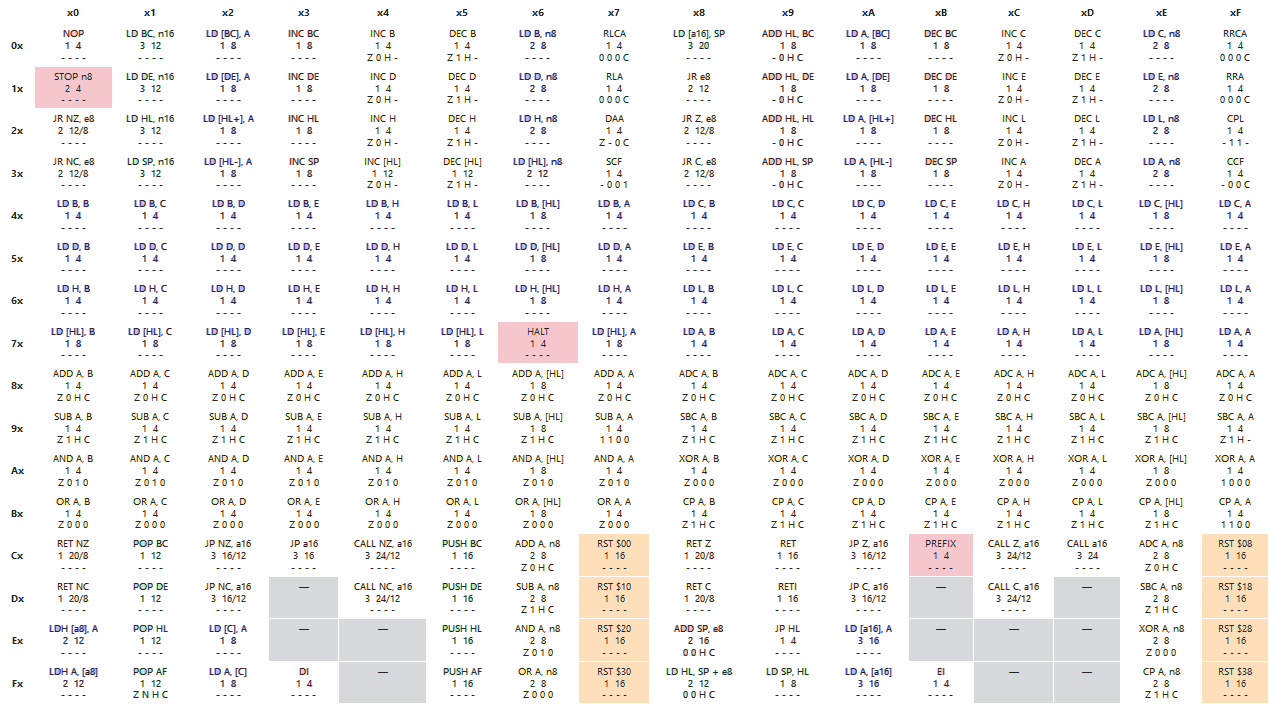
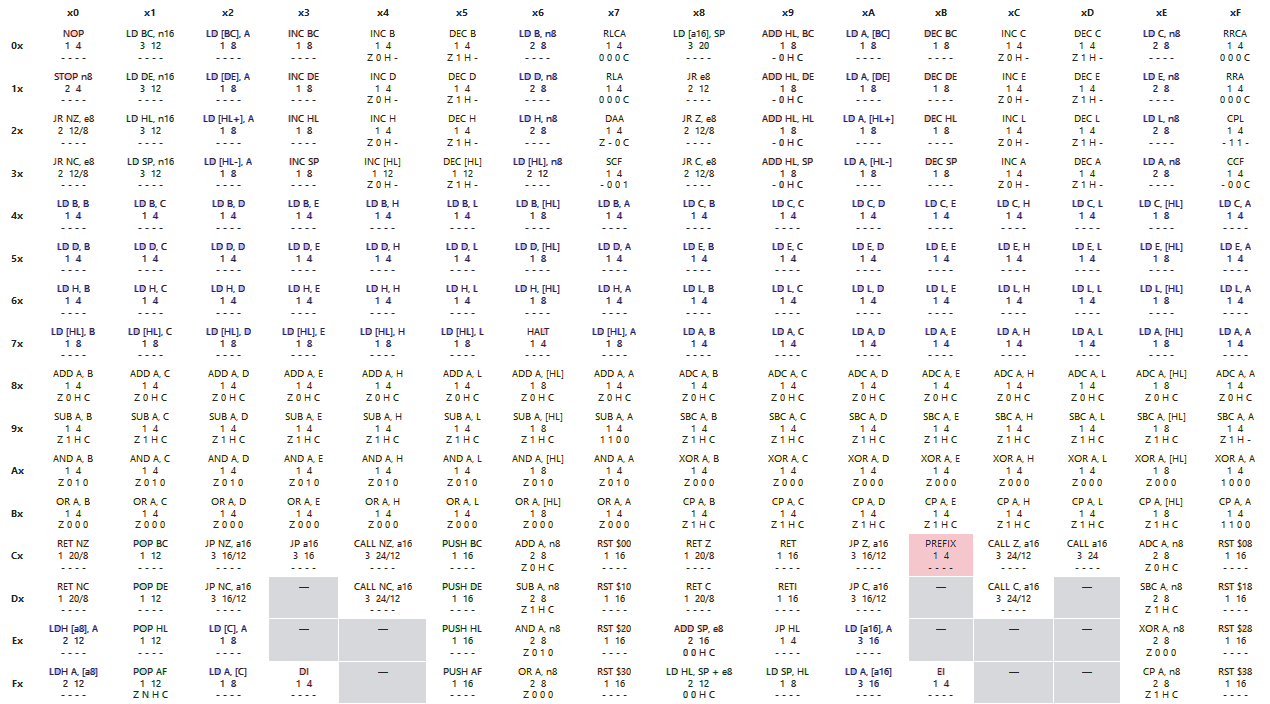
add basic timing, implement RST; implement HALT; add STOP (which wont be implemented). Also confirmed OBOE with bus (unprefixed instructions are finished!)

diff --git a/src/gb/cpu/mod.rs b/src/gb/cpu/mod.rs
@@ -10,9 +10,11 @@ use std::rc::Rc;
 
 pub struct CPU {
 	pub registers: Registers,
-	pub pc: u16,
-	pub ime: bool,	// interrupt master enable
 	pub bus: Rc<RefCell<Bus>>,
+	pub pc: u16,
+	pub ime: bool,			// interrupt master enable
+	pub halted: bool,		// used with the HALT instruction
+	pub wait_cycles: u16,	// used to count the number of cycles left until an instruction has finished
 }
 
 #[allow(dead_code)]
@@ -21,9 +23,11 @@ impl CPU {
 	pub fn new(bus: Rc<RefCell<Bus>>) -> Self {
 		CPU {
 			registers: Registers::new(),
+			bus: bus,
 			pc: 0,
 			ime: false,
-			bus: bus,
+			halted: false,
+			wait_cycles: 0,
 		}
 	}
 
@@ -50,18 +54,20 @@ impl CPU {
 
 		let mut executed: bool = false;
 
-		for instruction in if prefixed { PREFIXED_INSTRUCTIONS.iter() } else { INSTRUCTIONS.iter() } {
-			for opcode in instruction.opcodes.iter() {
-				if byte == *opcode {
+		if !self.halted {
+			for instruction in if prefixed { PREFIXED_INSTRUCTIONS.iter() } else { INSTRUCTIONS.iter() } {
+				for opcode in instruction.opcodes.iter() {
+					if byte == *opcode {
 
-					println!("[0x{:x}] {}", self.pc, instruction.mnemonic);
+						println!("[0x{:x}] {}", self.pc, instruction.mnemonic);
 
-					let mut cycles = instruction.cycles;
+						let mut cycles = instruction.cycles;
 
-					(instruction.exec)(self, byte, &mut cycles);
+						(instruction.exec)(self, byte, &mut cycles);
 
-					// TODO wait clock_speed * cycles after the instruction has been executed
-					executed = true;
+						self.wait_cycles = cycles;
+						executed = true;
+					}
 				}
 			}
 		}
@@ -69,7 +75,7 @@ impl CPU {
 		if !executed {
 			println!("[0x{:x}] Undefined opcode: 0x{:x}", self.pc, byte);
 		}
-
+		
 		// check for interrupts
 		if self.ime {
 			let if_flags = self.bus.borrow().read_register(MemRegister::IF);
@@ -98,15 +104,17 @@ impl CPU {
 		// assumes the corresponding IE bit is true
 		// interrupts are checked before the next instruction is executed
 
+		if self.halted { self.halted = false; }
+
 		let new_if = self.bus.borrow().read_register(MemRegister::IF) & flag as u8;
 		self.bus.borrow_mut().write_register(MemRegister::IF, new_if);
 
 		self.ime = false;
 
 		self.push16(self.pc);
-		self.pc = source as u16
+		self.pc = source as u16;
 
-		// TODO lasts 25 T-states (cycles)
+		self.wait_cycles = 25;
 
 	}
 

diff --git a/src/gb/cpu/instructions.rs b/src/gb/cpu/instructions.rs
@@ -75,12 +75,17 @@ lazy_static!{
 		Instruction::new(vec![0xFB], 4, "EI", EI),
 		Instruction::new(vec![0xF4], 4, "DI", DI),
 
+		Instruction::new(vec![0x76], 4, "HALT", HALT),
+		Instruction::new(vec![0x10], 4, "STOP", STOP),
+
 		// jump / subroutine instructions
 		Instruction::new(vec![0x20, 0x30, 0x18, 0x28, 0x38], 12, "JR (cond), e8", JR_COND_E8),
 		Instruction::new(vec![0xC3, 0xC2, 0xD2, 0xCA, 0xDA], 16, "JP (cond), a16", JP_COND_A16),
 		Instruction::new(vec![0xE9], 4, "JP HL", JP_HL),
 		Instruction::new(vec![0xC4, 0xD4, 0xCC, 0xDC, 0xCD], 24, "CALL (cond), a16", CALL_COND_A16),
 		
+		Instruction::new(vec![0xC7, 0xD7, 0xE7, 0xF7, 0xCF, 0xDF, 0xEF, 0xFF], 16, "RST vec", RST),
+
 		Instruction::new(vec![0xC0, 0xD0, 0xC8, 0xD8], 20, "RET (cond)", RET_COND),
 		Instruction::new(vec![0xC9], 16, "RET", RET_COND),
 		Instruction::new(vec![0xD9], 16, "RETI", RET_COND),
@@ -202,6 +207,33 @@ fn DI(cpu: &mut CPU, opcode: u8, cycles: &mut u16) {
 	cpu.ime = false;
 
 	cpu.pc += 1;
+}
+
+/*
+
+MNEMONIC: HALT
+OPCODES: 0x76
+DESC: Halts the CPU until and interrupt is serviced
+FLAGS: - - - -
+
+*/
+fn HALT(cpu: &mut CPU, opcode: u8, cycles: &mut u16) {
+
+	cpu.halted = true;
+
+	cpu.pc += 1;
+}
+
+/*
+
+MNEMONIC: STOP
+OPCODES: 0x10
+DESC: Unimplemented. Permenently halts the CPU
+FLAGS: - - - -
+
+*/
+fn STOP(cpu: &mut CPU, opcode: u8, cycles: &mut u16) {
+	println!("!!! STOP INSTRUCTION IS UNIMPLEMENTED !!!");
 }
 
 /*
@@ -495,6 +527,23 @@ fn RET_COND(cpu: &mut CPU, opcode: u8, cycles: &mut u16) {
 	let new_addr = (hi_byte as u16) << 8 | low_byte as u16;
 	cpu.pc = new_addr;
 
+}
+
+/*
+
+MNEMONIC: RST vec
+OPCODES: 0x(C-F)7, 0x(C-F)F
+DESC: Calls the pre-defined reset vector
+FLAGS: - - - -
+
+*/
+fn RST(cpu: &mut CPU, opcode: u8, cycles: &mut u16) {
+
+	let vec = ((opcode >> 3) & 0x7) * 8;
+
+	cpu.push16(cpu.pc);
+
+	cpu.pc += vec as u16;
 }
 
 // ! memory instructions

diff --git a/src/gb/mod.rs b/src/gb/mod.rs
@@ -41,9 +41,10 @@ impl Gameboy {
 		let log = File::create("emu.log").expect("unable to open log file");
 		let mut log_writer = BufWriter::new(&log);
 
-		self.cpu.pc = 0xFF;
+		self.cpu.pc = 0x0;
 
 		// temp
+		/*
 		loop {
 			let result = self.cpu.cycle();
 	
@@ -68,12 +69,21 @@ impl Gameboy {
 				break;
 			}
 		}
+		*/
 
 	}
 
-	pub fn tick(delta_time: u64) {
+	pub fn tick(&mut self) {
 
-		
+		println!("tick.");
+
+		self.cycles += 1;
+
+		if self.cpu.wait_cycles == 0 {
+			self.cpu.cycle();
+		} else {
+			self.cpu.wait_cycles -= 1;
+		}
 
 	}
 

diff --git a/src/main.rs b/src/main.rs
@@ -1,10 +1,23 @@
+use std::time::Duration;
+
 use gb::Gameboy;
 
 mod gb;
 
+const CLOCK_CYCLE_SPEED: f64 = 1.0 / 4194304.0;
+
 fn main() {
 
 	let mut gb: Gameboy = Gameboy::new();
-	gb.init(include_bytes!("../tetris.gb"/*"../tests/cpu_instrs/individual/06-ld r,r.gb"*/));
+	gb.init(include_bytes!("../tetris.gb"));//"../tests/cpu_instrs/individual/06-ld r,r.gb"));
+
+	// main loop
+	loop {
+
+		gb.tick();
+
+		std::thread::sleep(Duration::from_secs_f64(CLOCK_CYCLE_SPEED));
+
+	}
 
 }

diff --git a/src/gb/bus.rs b/src/gb/bus.rs
@@ -155,11 +155,11 @@ impl Bus {
 		}
 
 		if addr >= WRAM_START && addr <= WRAM_END {
-			self.wram[(addr - WRAM_START) as usize] = write;
+			self.wram[(addr - WRAM_START - 1) as usize] = write;
 		}
 
 		if addr >= HRAM_START && addr <= HRAM_END {
-			self.hram[(addr - HRAM_START) as usize] = write;
+			self.hram[(addr - HRAM_START - 1) as usize] = write;
 		}
 
 	}
